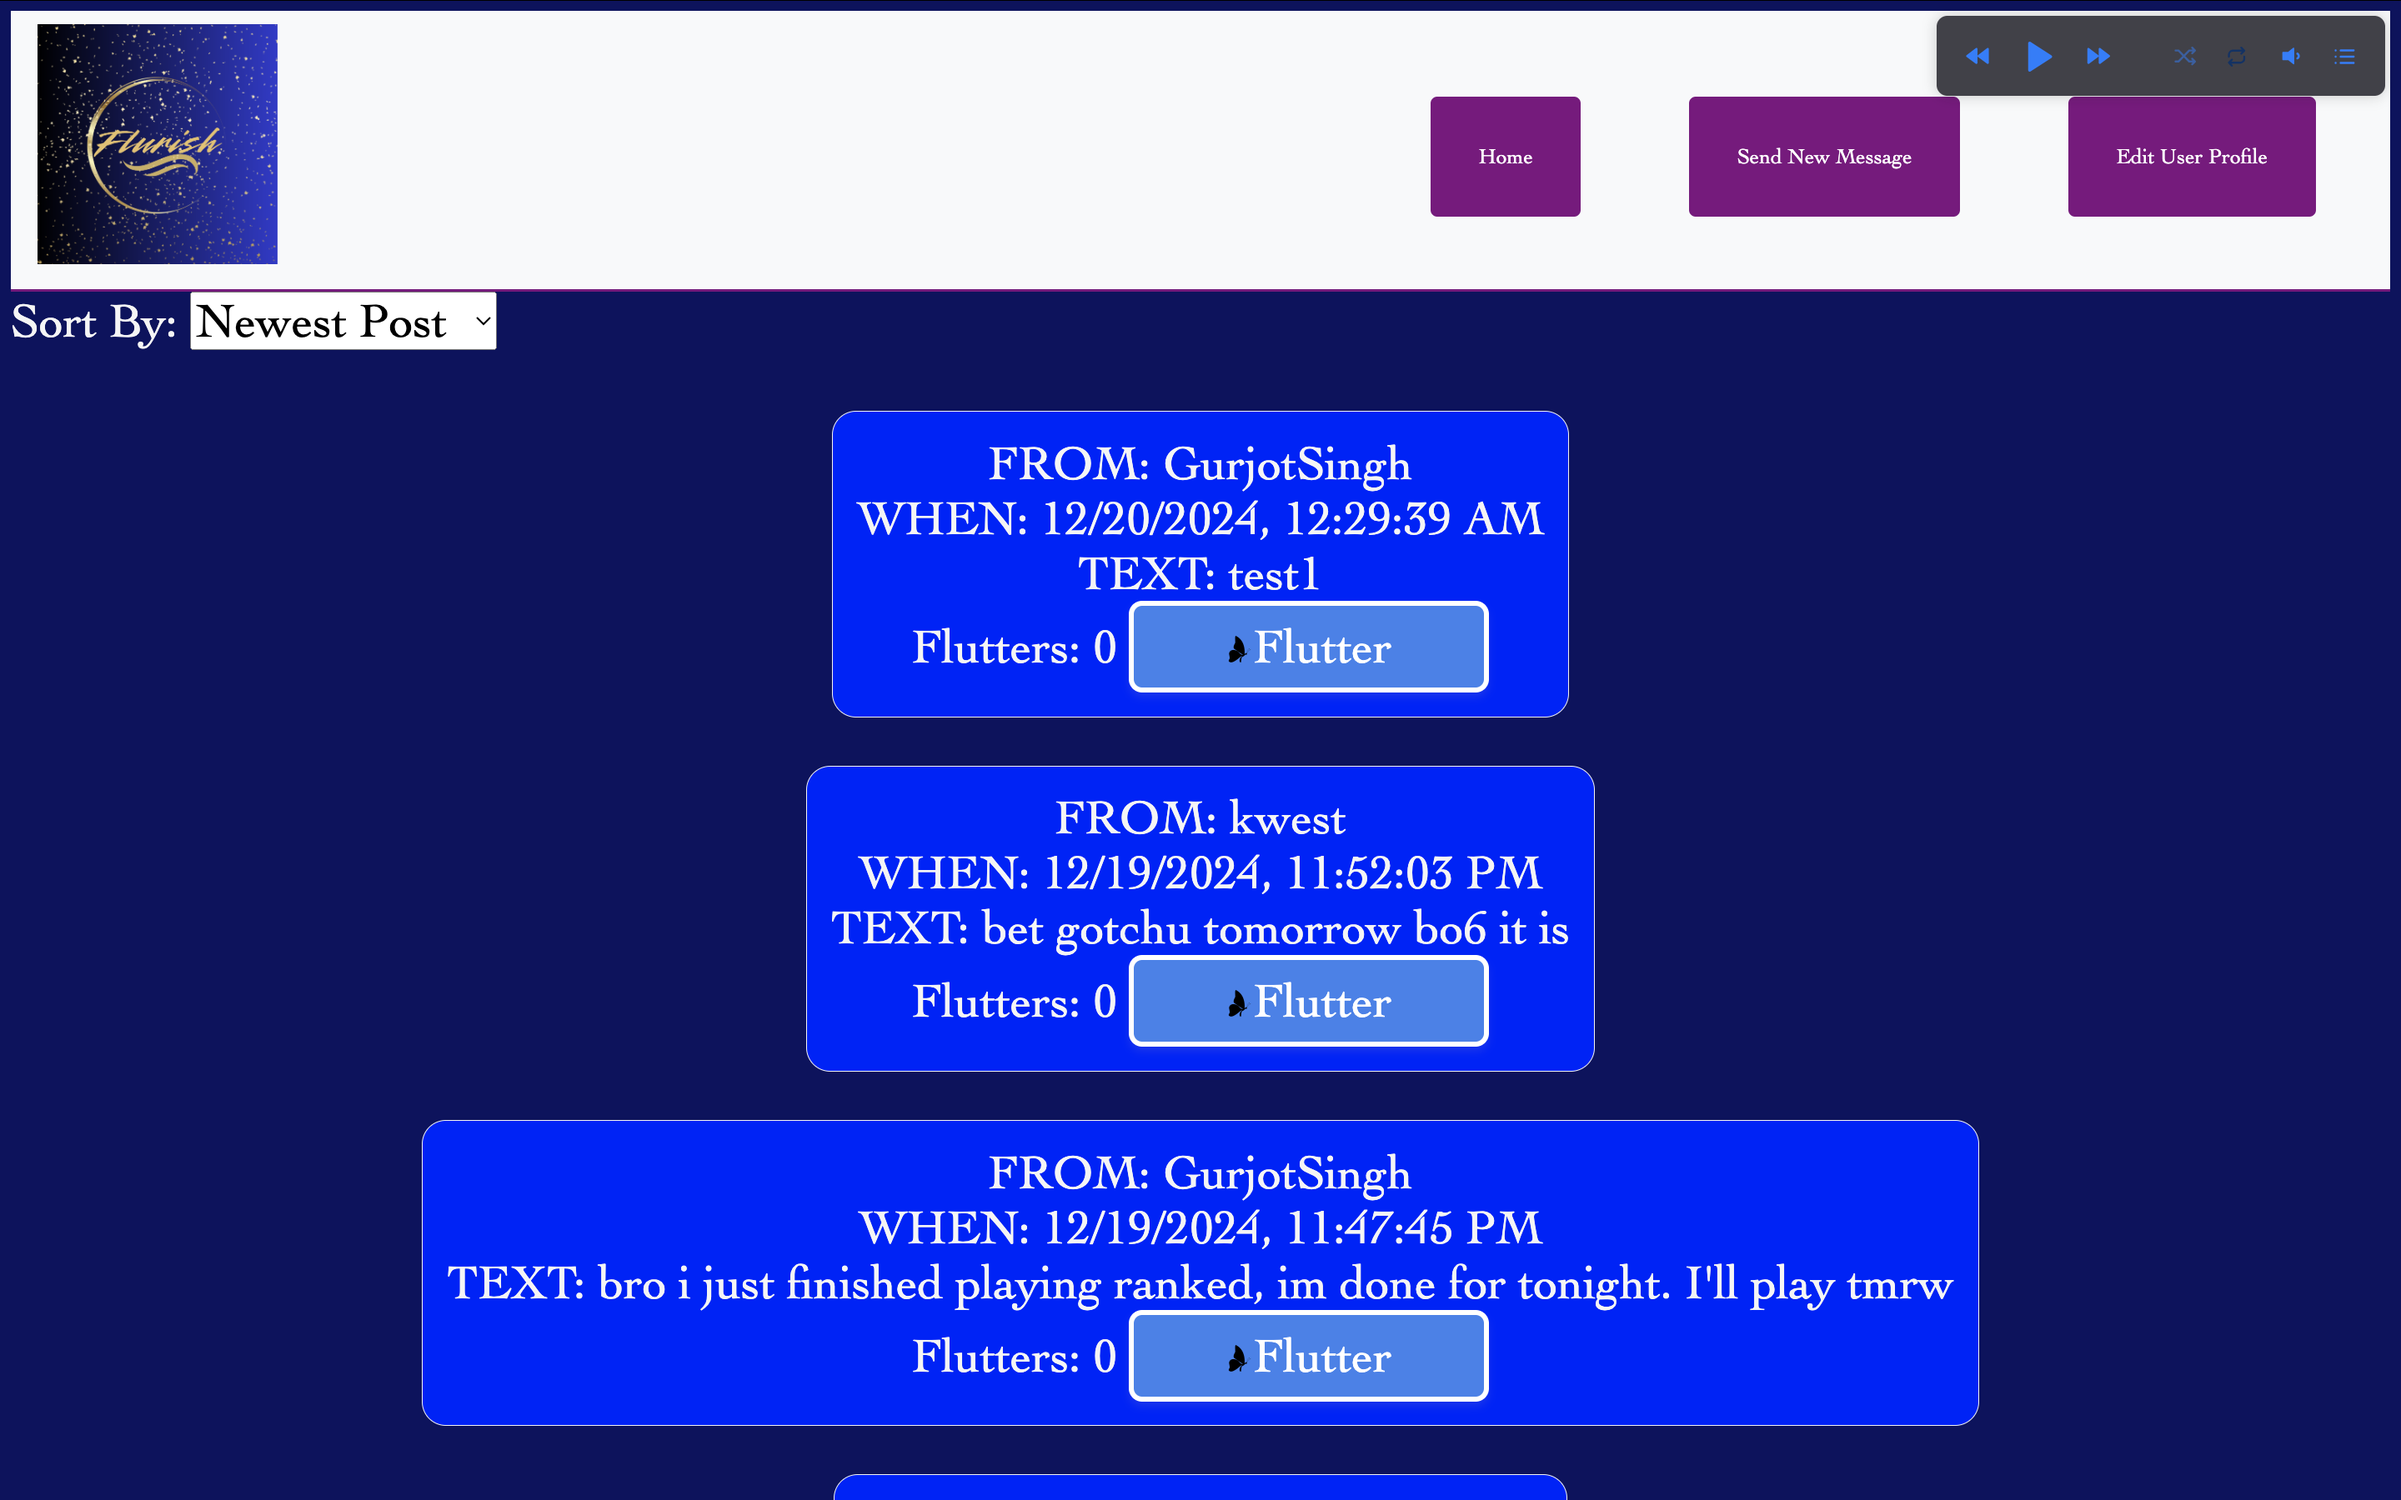
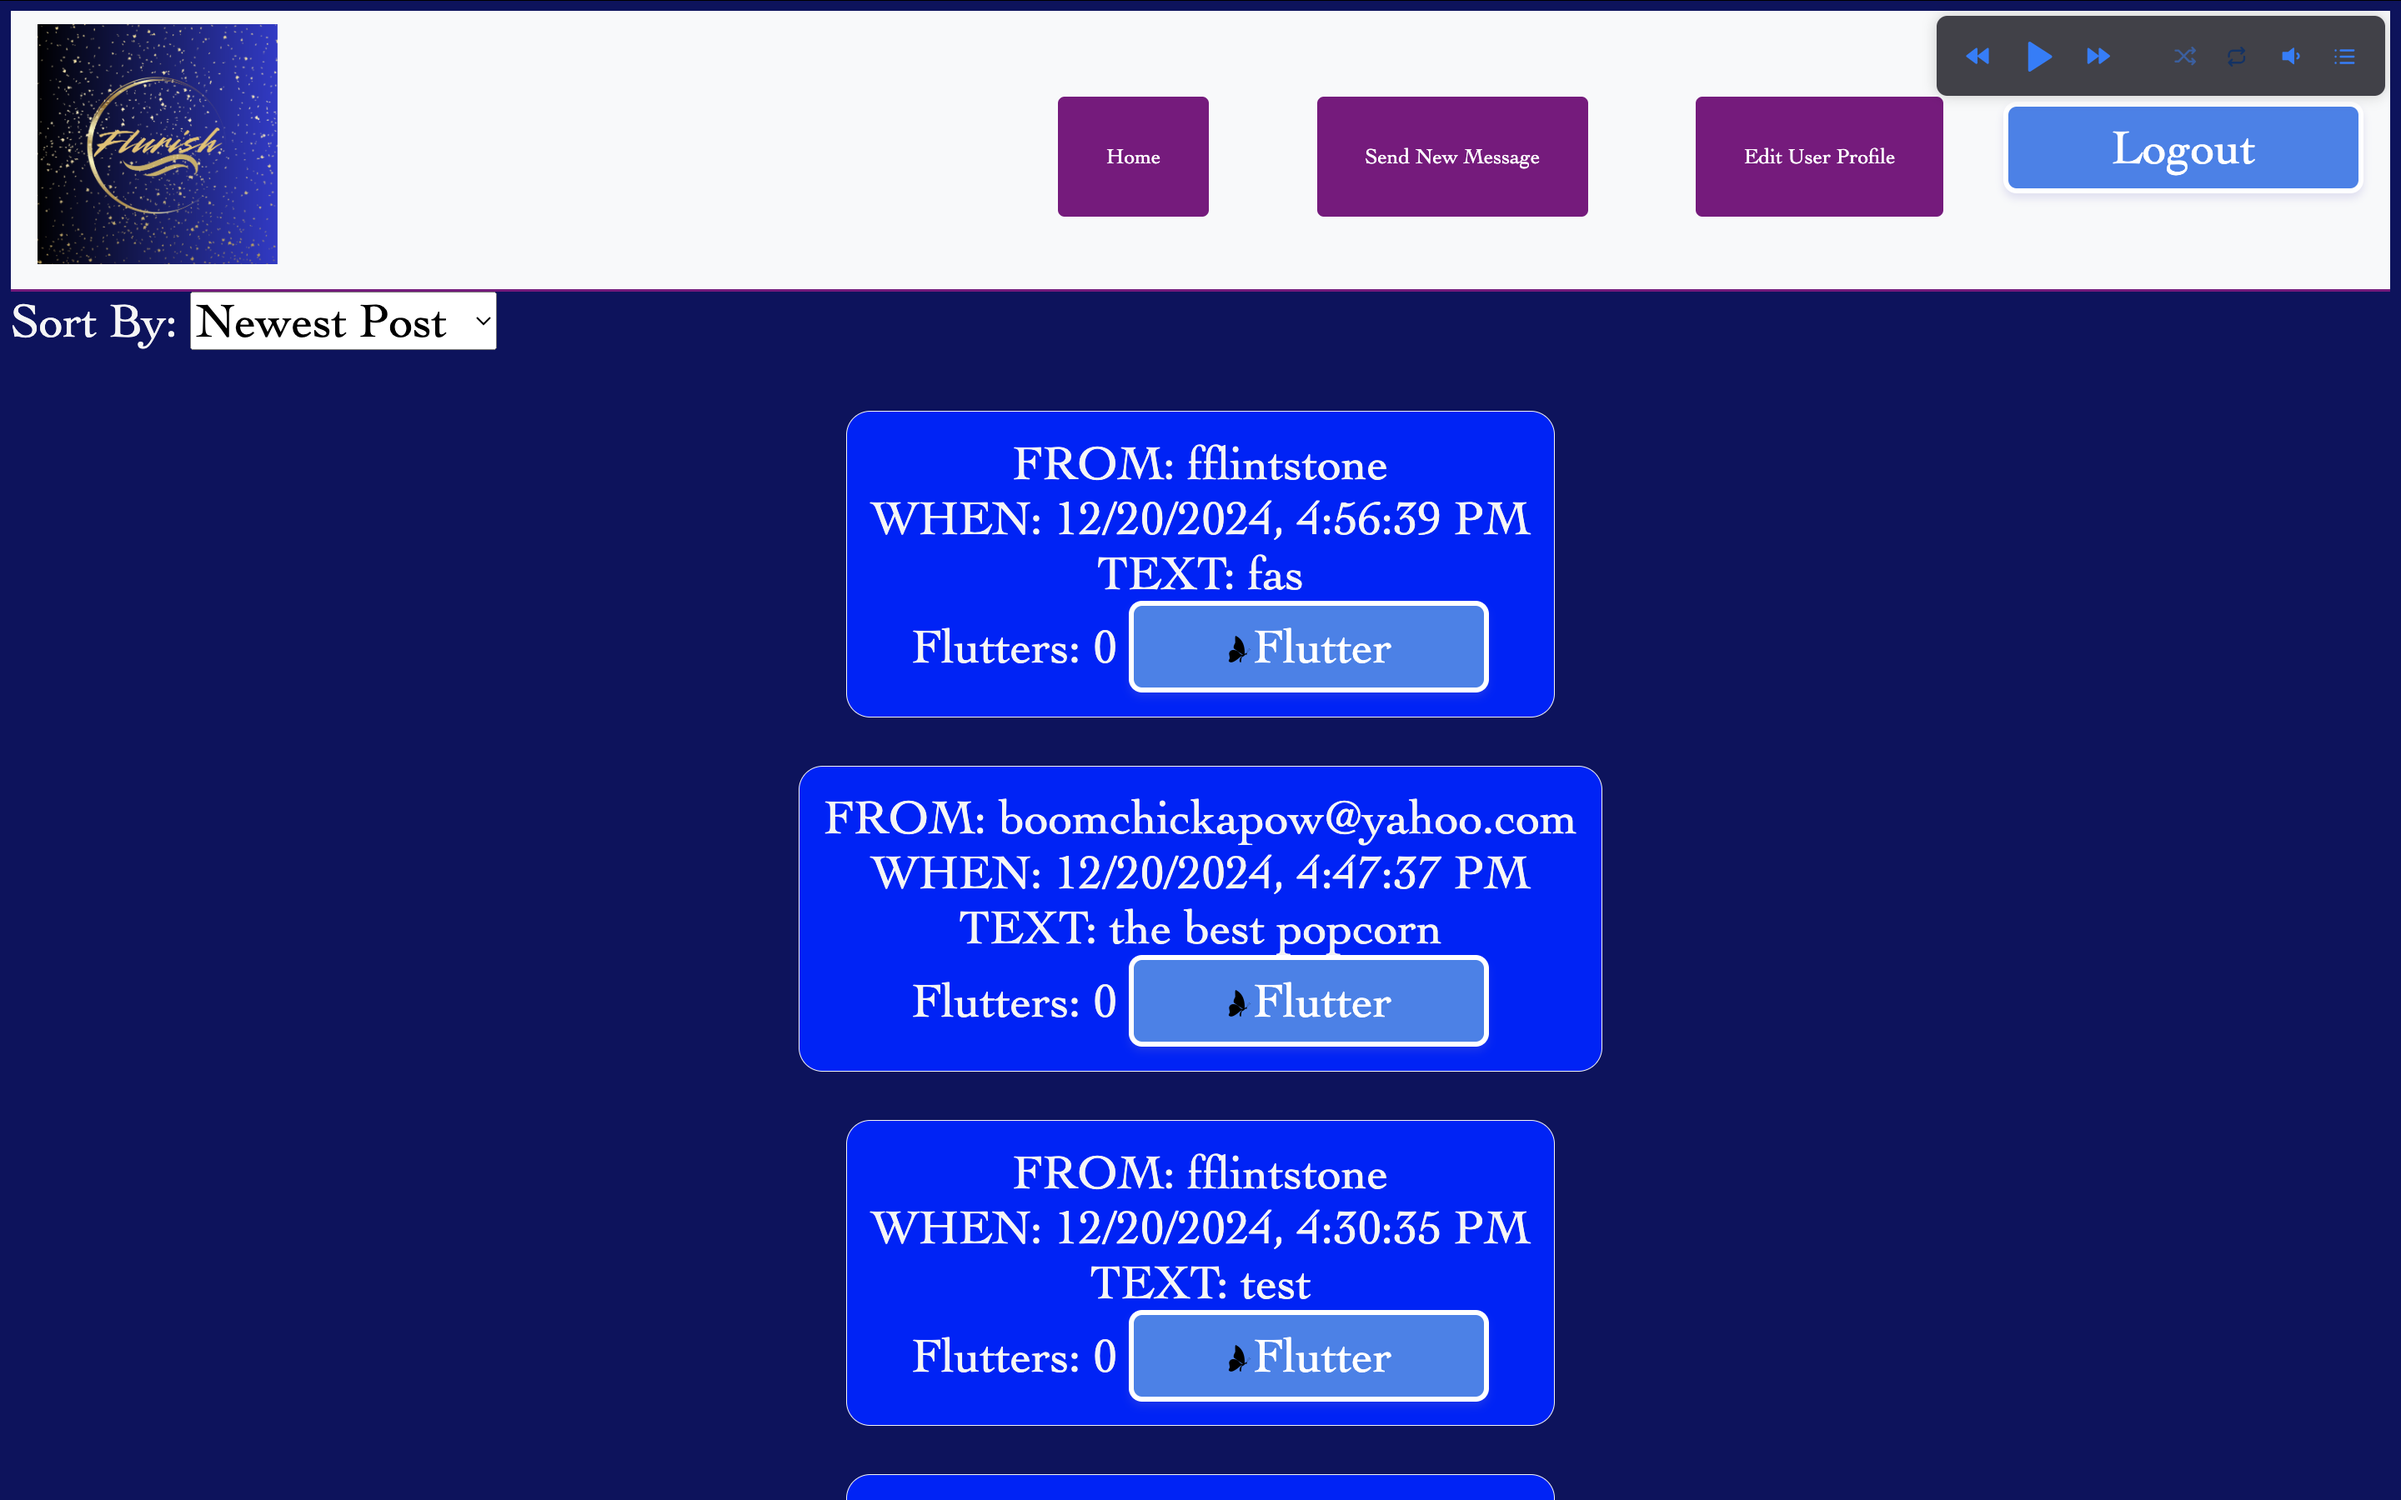
LTCA ILY!

diff --git a/js/messages.js b/js/messages.js
@@ -44,6 +44,12 @@ function getMessage(m) {
       console.log(`Sort By changed to: ${sortBy}`);
       fetchPosts(sortBy); // Fetch and display posts sorted by the selected option
     });
+    logoutButton.addEventListener("click",async ()=>{
+      const result = await logout();
+  
+      //SUCCESS
+      window.location.href = "login.html";
+  });//end click
   });
    
   // Fetch posts from the API and render them
@@ -97,3 +103,4 @@ function getMessage(m) {
   function getLoginData() {
     return JSON.parse(localStorage.getItem("loginData")) || {};
   }
+  

diff --git a/login.html b/login.html
@@ -143,10 +143,8 @@
                 </div>
                 <div class="mb-3">
                   <button id="loginButton" class="btn btn-primary w-100">Submit</button>
-                  <button id="loginButton" class="btn btn-primary w-100">Logout</button>
                 </div>
-                <div class="d-flex justify-content-end">
-                  <a href="#">Forgot password?</a>
+                <div class="d-flex justify-content-end"> <a href="#"> forgot your password? </a>
                 </div>
               </div>
             </div>

diff --git a/js/main.js b/js/main.js
@@ -89,6 +89,15 @@ async function getMessageList() {
     return object;
 }
 
+async function logout() {
+    const response = await fetch(
+        BASE_URL + "/auth/logout" , {
+        method: "GET",
+        headers: headersWithAuth(),
+    });
+    return response;
+}
+
 async function sendText(text){
     const response = await fetch(
         BASE_URL + "/api/posts", { // endpoint for messages/posts

diff --git a/messages.html b/messages.html
@@ -57,6 +57,7 @@
             <a href="index.html">Home</a>
             <a href="new.html">Send New Message</a>
             <a href="profile.html">Edit User Profile</a>
+            <button id="logoutButton" class="btn btn-primary w-100">Logout</button>
         </div>
     </nav>
     <div style="margin-bottom: 10px;">

diff --git a/js/login.js b/js/login.js
@@ -11,4 +11,5 @@ document.addEventListener("DOMContentLoaded", ()=>{
         //SUCCESS
         window.location.href = "messages.html";
     });//end click
+    
 }); //end loaded
